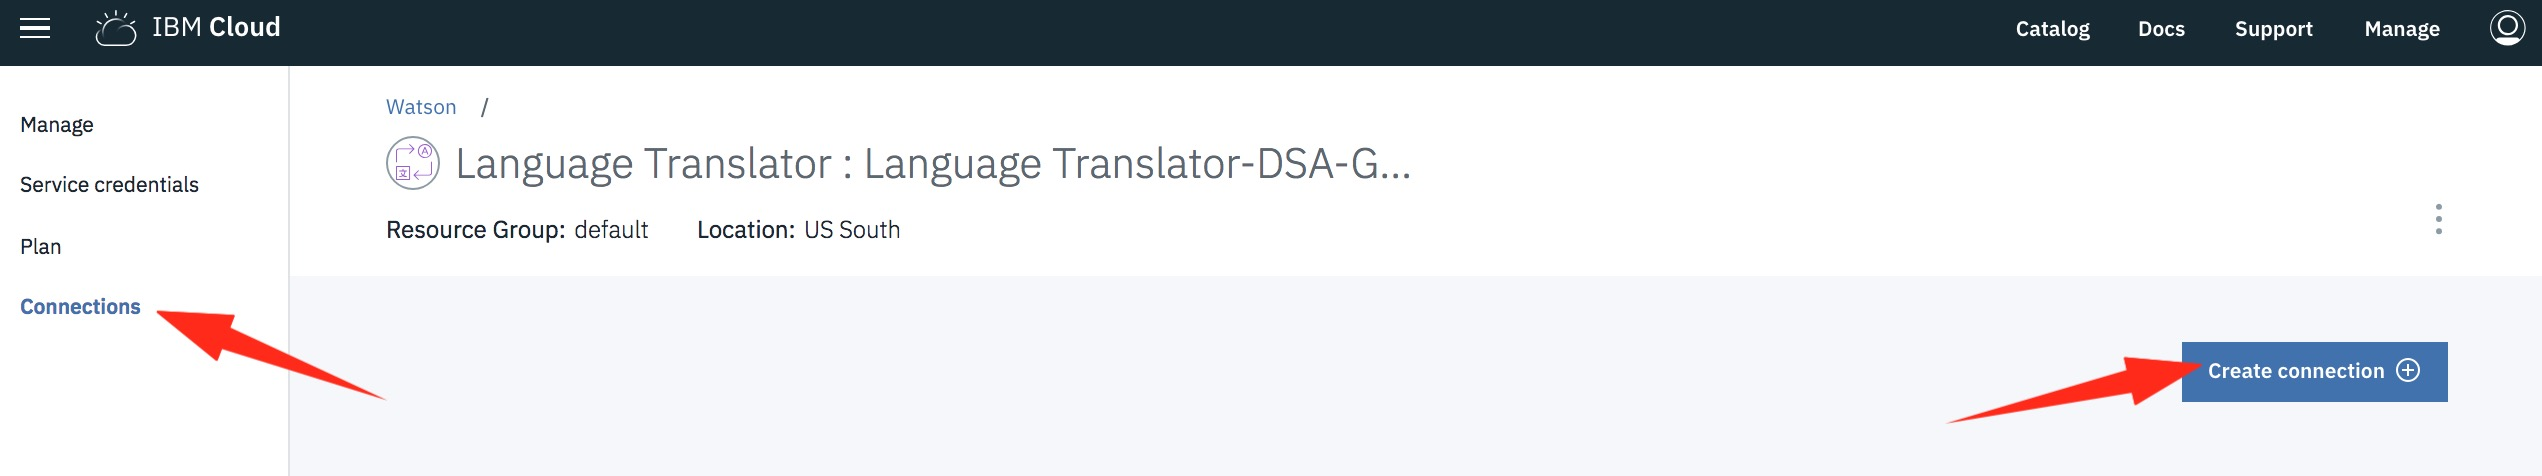
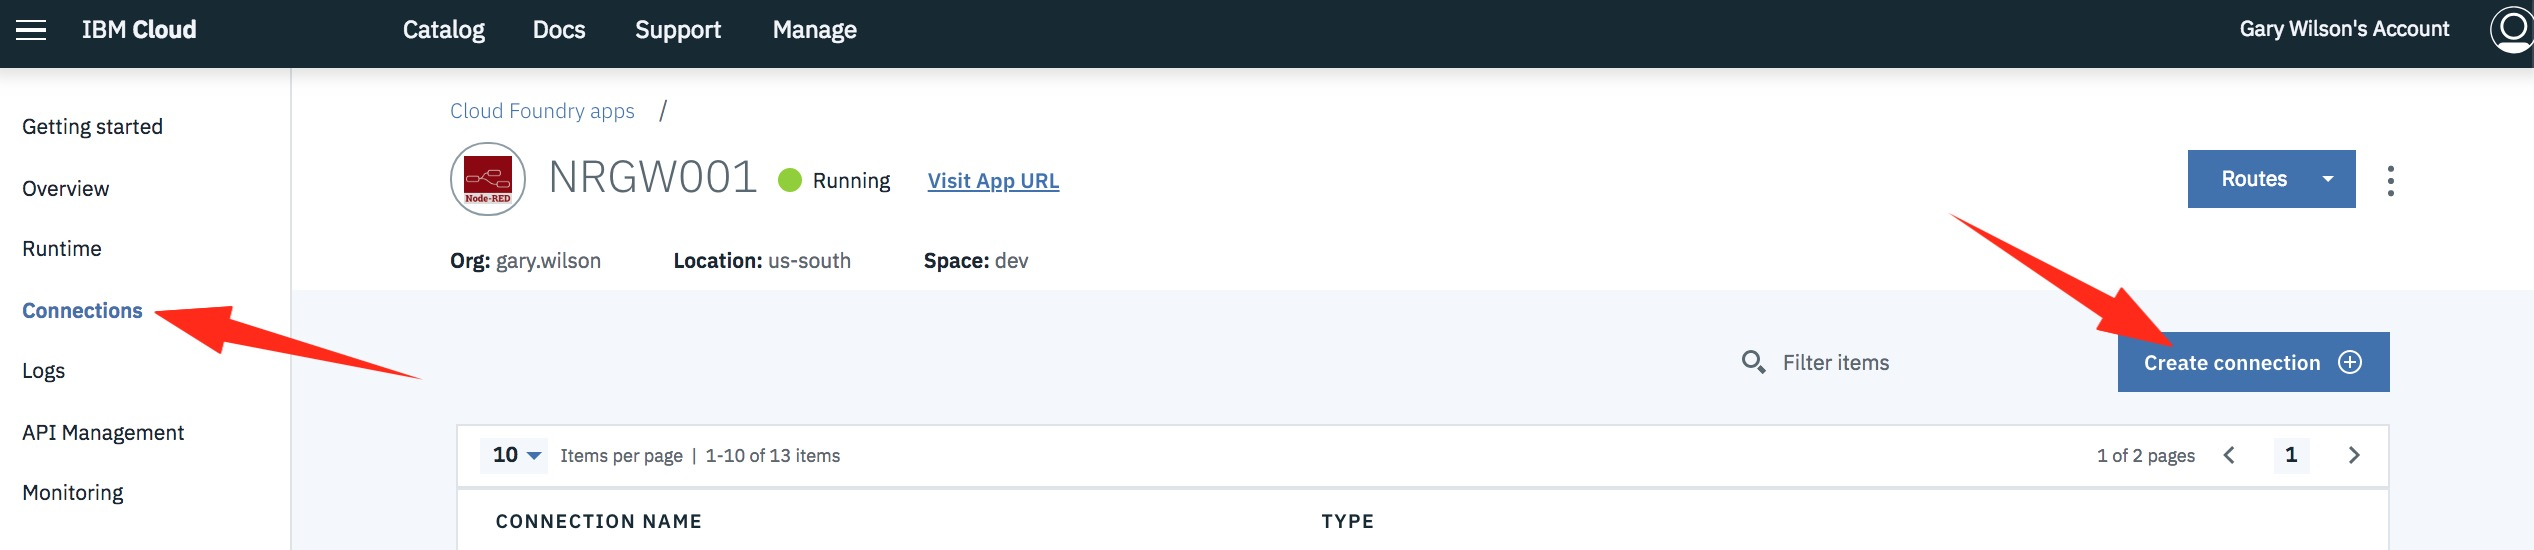
v2.1.1

diff --git a/6-Translation/README.md b/6-Translation/README.md
@@ -24,15 +24,15 @@ The same instance of Node-RED can be used.
 
 ![](./images/translator-1.jpg)
 
-**(2)** Connect this service to your Node-RED instance. As well as connecting a service _from_ your Node-RED application, IBM Cloud allows you to connect services _to_ applications.
+**(2)** Connect this service to your Node-RED instance.
 
-Select `Connections` and `Create connection`, then select your Node-RED application and `Connect`.
+Select `Connections` and `Create connection`, then select your `Language Translator` service and `Connect`.
 
 ![](./images/translator-2.jpg)
 
 ![](./images/translator-3.jpg)
 
-Just use the defaults when asked here and select `Connect & restage app`, then hit `Restage` on the next window.
+Just use the defaults when asked here and select `Connect`, then hit `Restage` on the next window.
 
 ![](./images/translator-4.jpg)
 
